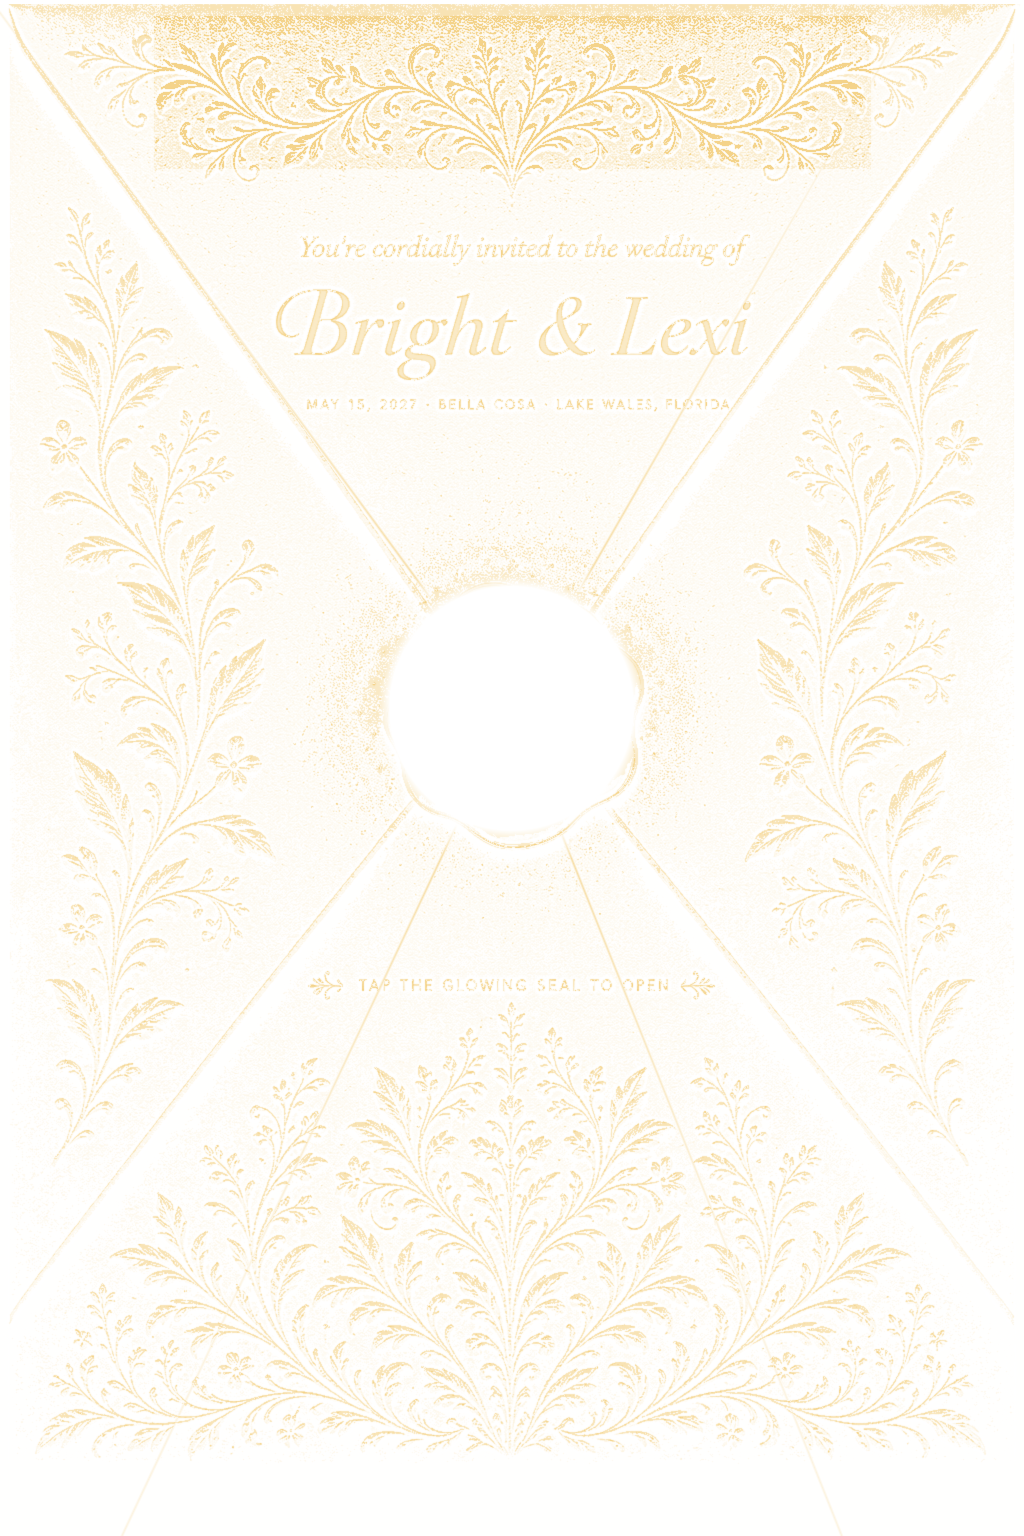
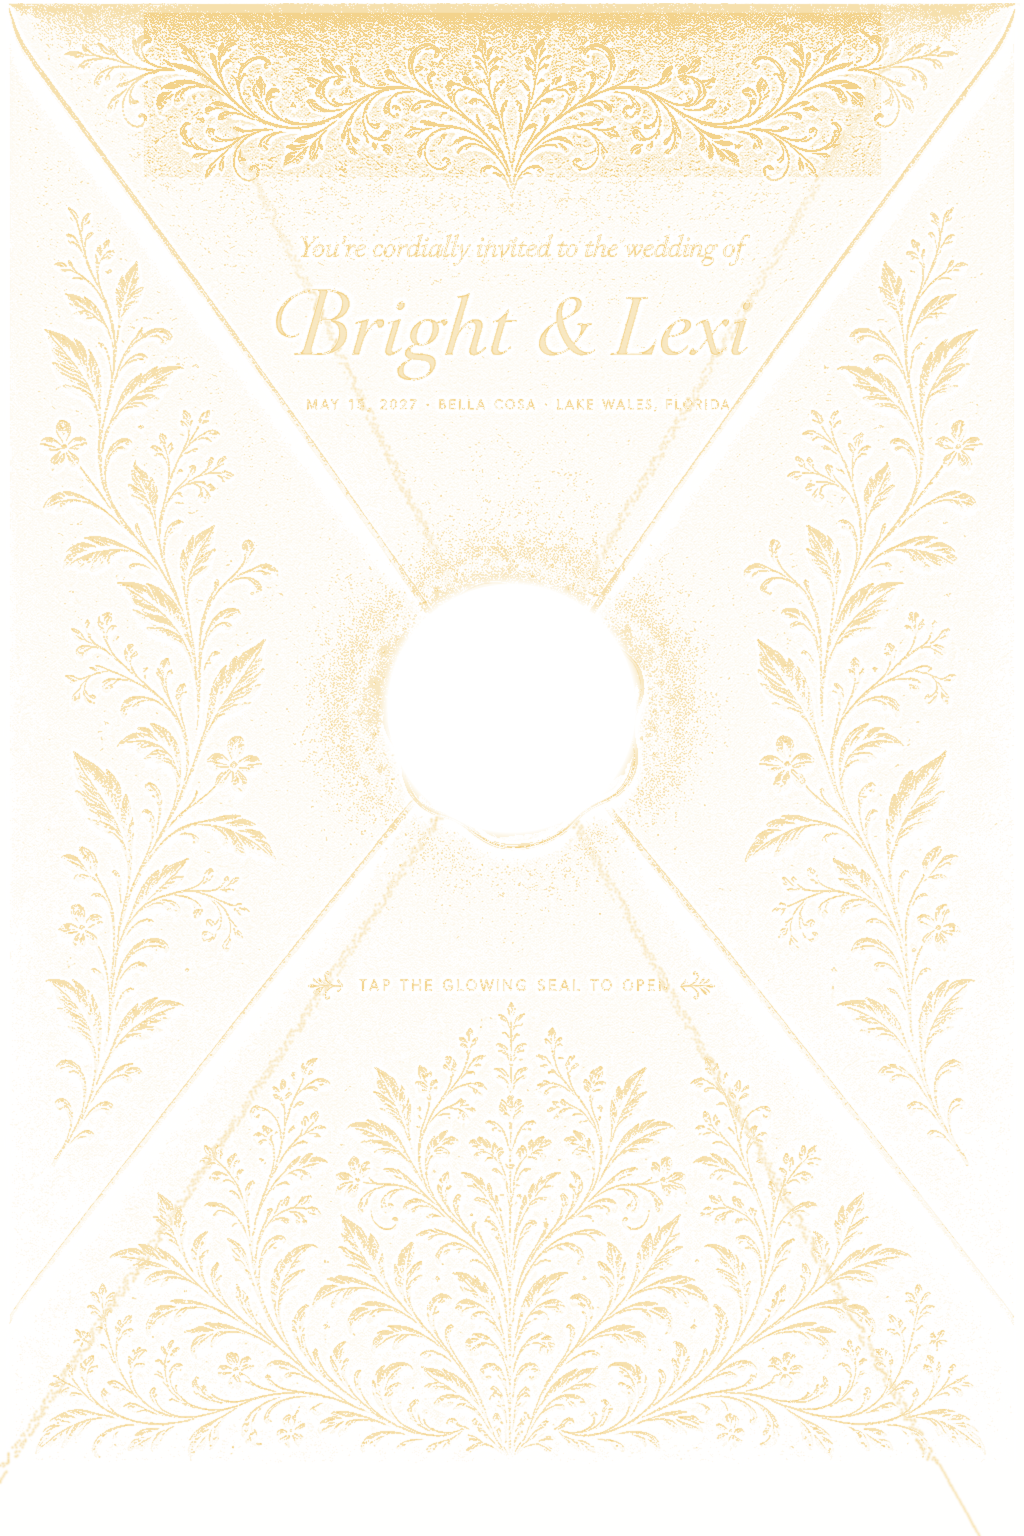
Replace misregistered flap peel with sealed bloom open
Paint seam glow onto the art’s actual crease pixels (and clear it under the wax), keep a flatter full-seal light plus top crest glow, and open by scaling/fading the sealed master instead of the broken four-flap morph.

diff --git a/app/globals.css b/app/globals.css
@@ -462,127 +462,27 @@
     }
   }
 
-  /* Four-flap geometry — apex locked to painted seal center */
-  .envelope-flap-top {
-    clip-path: polygon(
-      0 0,
-      100% 0,
-      var(--intro-seal-x, 49.91%) var(--intro-seal-y, 46.08%)
-    );
-    z-index: 4;
-  }
-
-  .envelope-flap-top .envelope-flap-hinge {
-    transform-origin: 50% 0%;
-  }
-
-  .envelope-flap-bottom {
-    clip-path: polygon(
-      var(--intro-seal-x, 49.91%) var(--intro-seal-y, 46.08%),
-      100% 100%,
-      0 100%
-    );
-    z-index: 1;
-  }
-
-  .envelope-flap-bottom .envelope-flap-hinge {
-    transform-origin: 50% 100%;
-  }
-
-  .envelope-flap-left {
-    clip-path: polygon(
-      0 0,
-      var(--intro-seal-x, 49.91%) var(--intro-seal-y, 46.08%),
-      0 100%
-    );
-    z-index: 2;
-  }
-
-  .envelope-flap-left .envelope-flap-hinge {
-    transform-origin: 0% 50%;
-  }
-
-  .envelope-flap-right {
-    clip-path: polygon(
-      100% 0,
-      100% 100%,
-      var(--intro-seal-x, 49.91%) var(--intro-seal-y, 46.08%)
-    );
-    z-index: 2;
-  }
-
-  .envelope-flap-right .envelope-flap-hinge {
-    transform-origin: 100% 50%;
-  }
-
-  .envelope-shell-open .envelope-flap-hinge {
+  .envelope-closed-master {
+    transform-origin: var(--intro-seal-x, 49.91%) var(--intro-seal-y, 46.08%);
     transition:
-      transform var(--intro-open, 2800ms) cubic-bezier(0.33, 0.1, 0.25, 1),
-      opacity calc(var(--intro-open, 2800ms) * 0.9) ease;
+      opacity calc(var(--intro-open, 2800ms) * 0.85) ease,
+      transform var(--intro-open, 2800ms) cubic-bezier(0.22, 1, 0.36, 1),
+      filter var(--intro-open, 2800ms) ease;
   }
 
-  .envelope-shell.envelope-shell-open {
-    overflow: visible;
-  }
-
-  .intro-envelope-opening {
-    overflow: visible;
-  }
-
-  /* Gentler peel — folds outward without extreme tumbling */
-  .envelope-flap-top .envelope-flap-hinge.is-open {
-    transform: rotateX(-108deg) translateY(-2%);
+  .envelope-closed-master.is-opening {
     opacity: 0;
-    transition-delay: 0.08s;
+    transform: scale(1.08) translateY(-1.5%);
+    filter: brightness(1.15) blur(1px);
   }
 
-  .envelope-flap-bottom .envelope-flap-hinge.is-open {
-    transform: rotateX(108deg) translateY(2%);
-    opacity: 0;
-    transition-delay: 0.2s;
-  }
-
-  .envelope-flap-left .envelope-flap-hinge.is-open {
-    transform: rotateY(-108deg) translateX(-2%);
-    opacity: 0;
-    transition-delay: 0s;
-  }
-
-  .envelope-flap-right .envelope-flap-hinge.is-open {
-    transform: rotateY(108deg) translateX(2%);
-    opacity: 0;
-    transition-delay: 0.12s;
-  }
-
-  .envelope-flap-hinge.is-open-instant {
-    opacity: 0;
-    transition: none;
+  .intro-envelope-opening .envelope-shell {
+    animation: none;
   }
 
   .intro-envelope-exiting {
     opacity: 0;
     transition: opacity 0.35s ease;
-  }
-
-  .intro-envelope-opening .envelope-shell {
-    animation: intro-envelope-settle var(--intro-open, 2800ms)
-      cubic-bezier(0.22, 1, 0.36, 1) forwards;
-  }
-
-  @keyframes intro-envelope-settle {
-    0% {
-      transform: scale(1);
-      filter: brightness(1);
-    }
-    35% {
-      transform: scale(1.015);
-      filter: brightness(1.04);
-    }
-    100% {
-      transform: scale(1.04);
-      filter: brightness(0.85);
-      opacity: 0.15;
-    }
   }
 
   /* Invitation typography — upper third */
@@ -677,15 +577,15 @@
   .intro-seal-wrap.is-idle-twinkle .intro-seal-idle-aura,
   .intro-seal-wrap.is-seal-lit .intro-seal-idle-aura {
     position: absolute;
-    inset: -22%;
+    inset: -12%;
     border-radius: 50%;
     pointer-events: none;
     background:
       radial-gradient(
         circle,
-        rgb(242 210 120 / 0.55) 0%,
-        rgb(224 190 100 / 0.28) 42%,
-        transparent 72%
+        rgb(236 204 118 / 0.38) 0%,
+        rgb(220 186 96 / 0.22) 48%,
+        transparent 74%
       );
   }
 
@@ -694,8 +594,8 @@
   }
 
   .intro-seal-wrap.is-seal-lit .intro-seal-idle-aura {
-    opacity: 1;
-    animation: intro-seal-lit-pulse 1.8s ease-in-out infinite;
+    opacity: 0.9;
+    animation: none;
   }
 
   .intro-seal-idle-aura {
@@ -795,11 +695,11 @@
   }
 
   .intro-seal-button.is-lifting {
-    transform: translateY(-2.5rem) scale(1.2);
+    transform: translateY(-2.25rem) scale(1.18);
     opacity: 0;
     transition:
-      transform calc(var(--intro-open, 2400ms) * 0.85) cubic-bezier(0.22, 1, 0.36, 1),
-      opacity calc(var(--intro-open, 2400ms) * 0.55) ease;
+      transform calc(var(--intro-open, 2800ms) * 0.75) cubic-bezier(0.22, 1, 0.36, 1),
+      opacity calc(var(--intro-open, 2800ms) * 0.5) ease;
   }
 
   .intro-seal-hint {

diff --git a/components/entry/intro/Envelope.tsx b/components/entry/intro/Envelope.tsx
@@ -2,7 +2,6 @@
 
 import { cn } from "@/lib/cn";
 import type { CSSProperties } from "react";
-import { EnvelopeFlap } from "./EnvelopeFlap";
 import { WaxSealButton } from "./WaxSealButton";
 import type { IntroPhase } from "./types";
 import { isIlluminatedPhase, isOpeningPhase, isSealVisiblePhase } from "./types";
@@ -15,14 +14,13 @@ interface EnvelopeProps {
 
 /**
  * Closed master illustration with seal hotspot.
- * After glow, the sealed envelope folds open gently onto the homepage.
+ * After glow, the sealed envelope lifts/fades open onto the homepage
+ * (avoids misregistered 3D flap morphs on the baked diamond art).
  */
 export function Envelope({ phase, reduceMotion, onActivate }: EnvelopeProps) {
   const opening = isOpeningPhase(phase);
   const illuminated = isIlluminatedPhase(phase);
-  const closedVisual =
-    phase === "closed" || phase === "activating" || phase === "glowing";
-  const sealVisible = isSealVisiblePhase(phase) || phase === "opening";
+  const sealVisible = isSealVisiblePhase(phase);
   const floralGlow =
     phase === "activating" || phase === "glowing" || phase === "opening";
   const monogramLit =
@@ -47,25 +45,15 @@ export function Envelope({ phase, reduceMotion, onActivate }: EnvelopeProps) {
     >
       <div
         className={cn(
-          "envelope-shell intro-envelope relative h-full w-full",
-          opening && !reduceMotion ? "overflow-visible" : "overflow-hidden",
+          "envelope-shell intro-envelope relative h-full w-full overflow-hidden",
           opening && !reduceMotion && "envelope-shell-open",
         )}
-        style={
-          reduceMotion
-            ? undefined
-            : { perspective: 1200, transformStyle: "preserve-3d" }
-        }
       >
-        <div className="envelope-interior absolute inset-0" aria-hidden />
-
-        {/* Exact closed mockup — stays through glow, then crossfades into peeling flaps */}
         <div
           className={cn(
             "envelope-closed-master absolute inset-0 z-[6]",
-            closedVisual
-              ? "opacity-100"
-              : "pointer-events-none opacity-0 duration-200",
+            opening && !reduceMotion && "is-opening",
+            opening && reduceMotion && "opacity-0",
           )}
           aria-hidden
         >
@@ -99,26 +87,12 @@ export function Envelope({ phase, reduceMotion, onActivate }: EnvelopeProps) {
           />
         </div>
 
-        {/* Peeling flaps — matched closed art, under sealed layer until open */}
-        <div
-          className={cn(
-            "absolute inset-0 z-[5]",
-            closedVisual && "opacity-0",
-            opening && "opacity-100",
-          )}
-        >
-          <EnvelopeFlap side="bottom" phase={phase} reduceMotion={reduceMotion} />
-          <EnvelopeFlap side="left" phase={phase} reduceMotion={reduceMotion} />
-          <EnvelopeFlap side="right" phase={phase} reduceMotion={reduceMotion} />
-          <EnvelopeFlap side="top" phase={phase} reduceMotion={reduceMotion} />
-        </div>
-
         <WaxSealButton
           phase={phase}
           reduceMotion={reduceMotion}
           onActivate={onActivate}
           visible={sealVisible}
-          hotspotOnly={closedVisual}
+          hotspotOnly
           idleTwinkle={idleTwinkle}
         />
       </div>

diff --git a/components/entry/intro/constants.ts b/components/entry/intro/constants.ts
@@ -4,7 +4,7 @@ export const INTRO_TIMING = {
   /** Slow emboss + seam illumination (mask wipe + opacity) */
   glow: 4500,
   /** Flap peel + seal lift before homepage takes over */
-  open: 2800,
+  open: 1600,
   /** Overlay unmount after peel settles */
   exit: 280,
   /** Monogram starts after florals begin filling */
